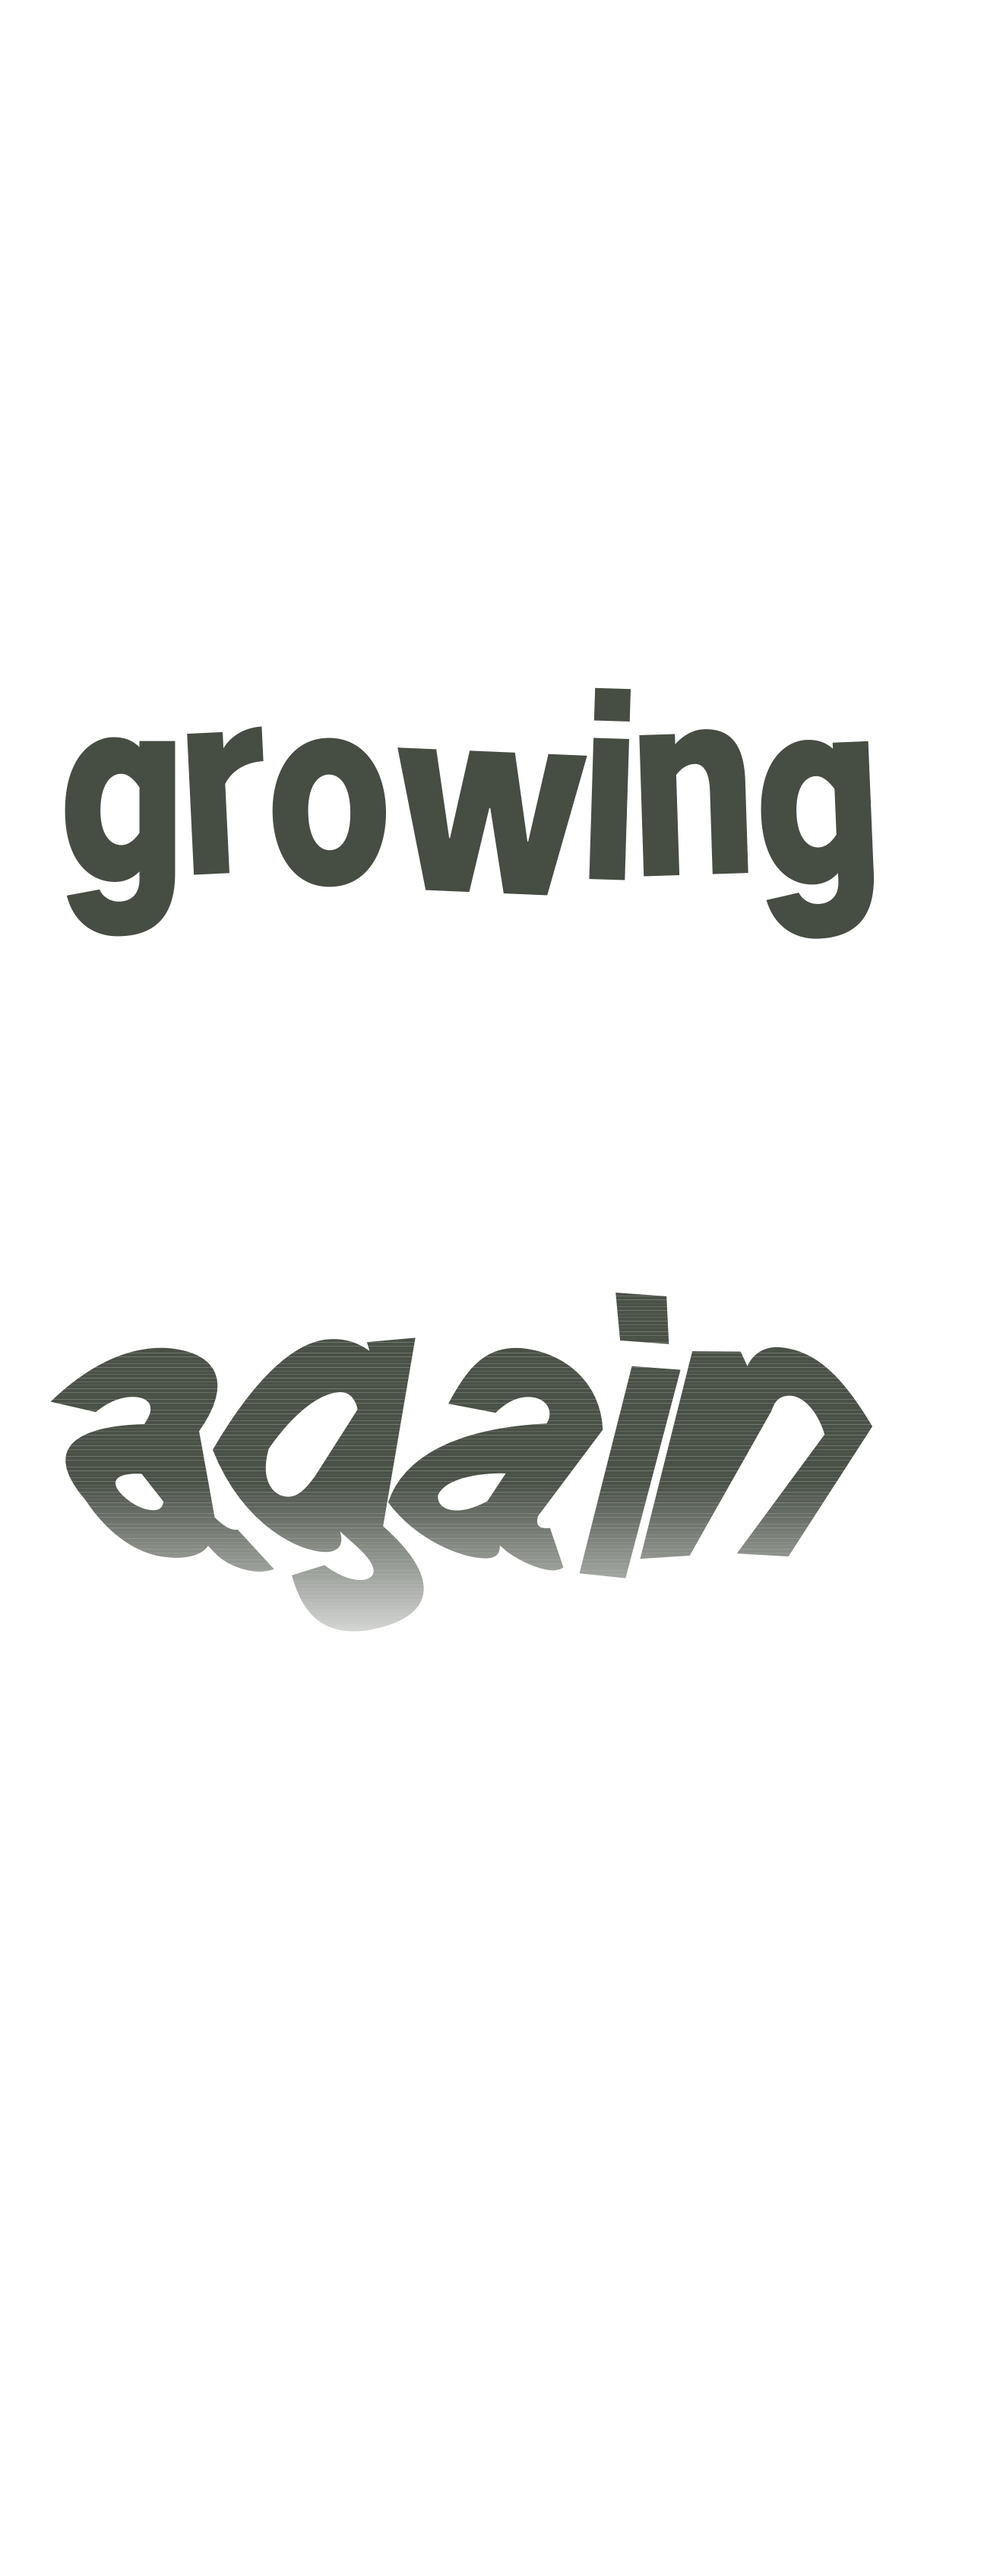
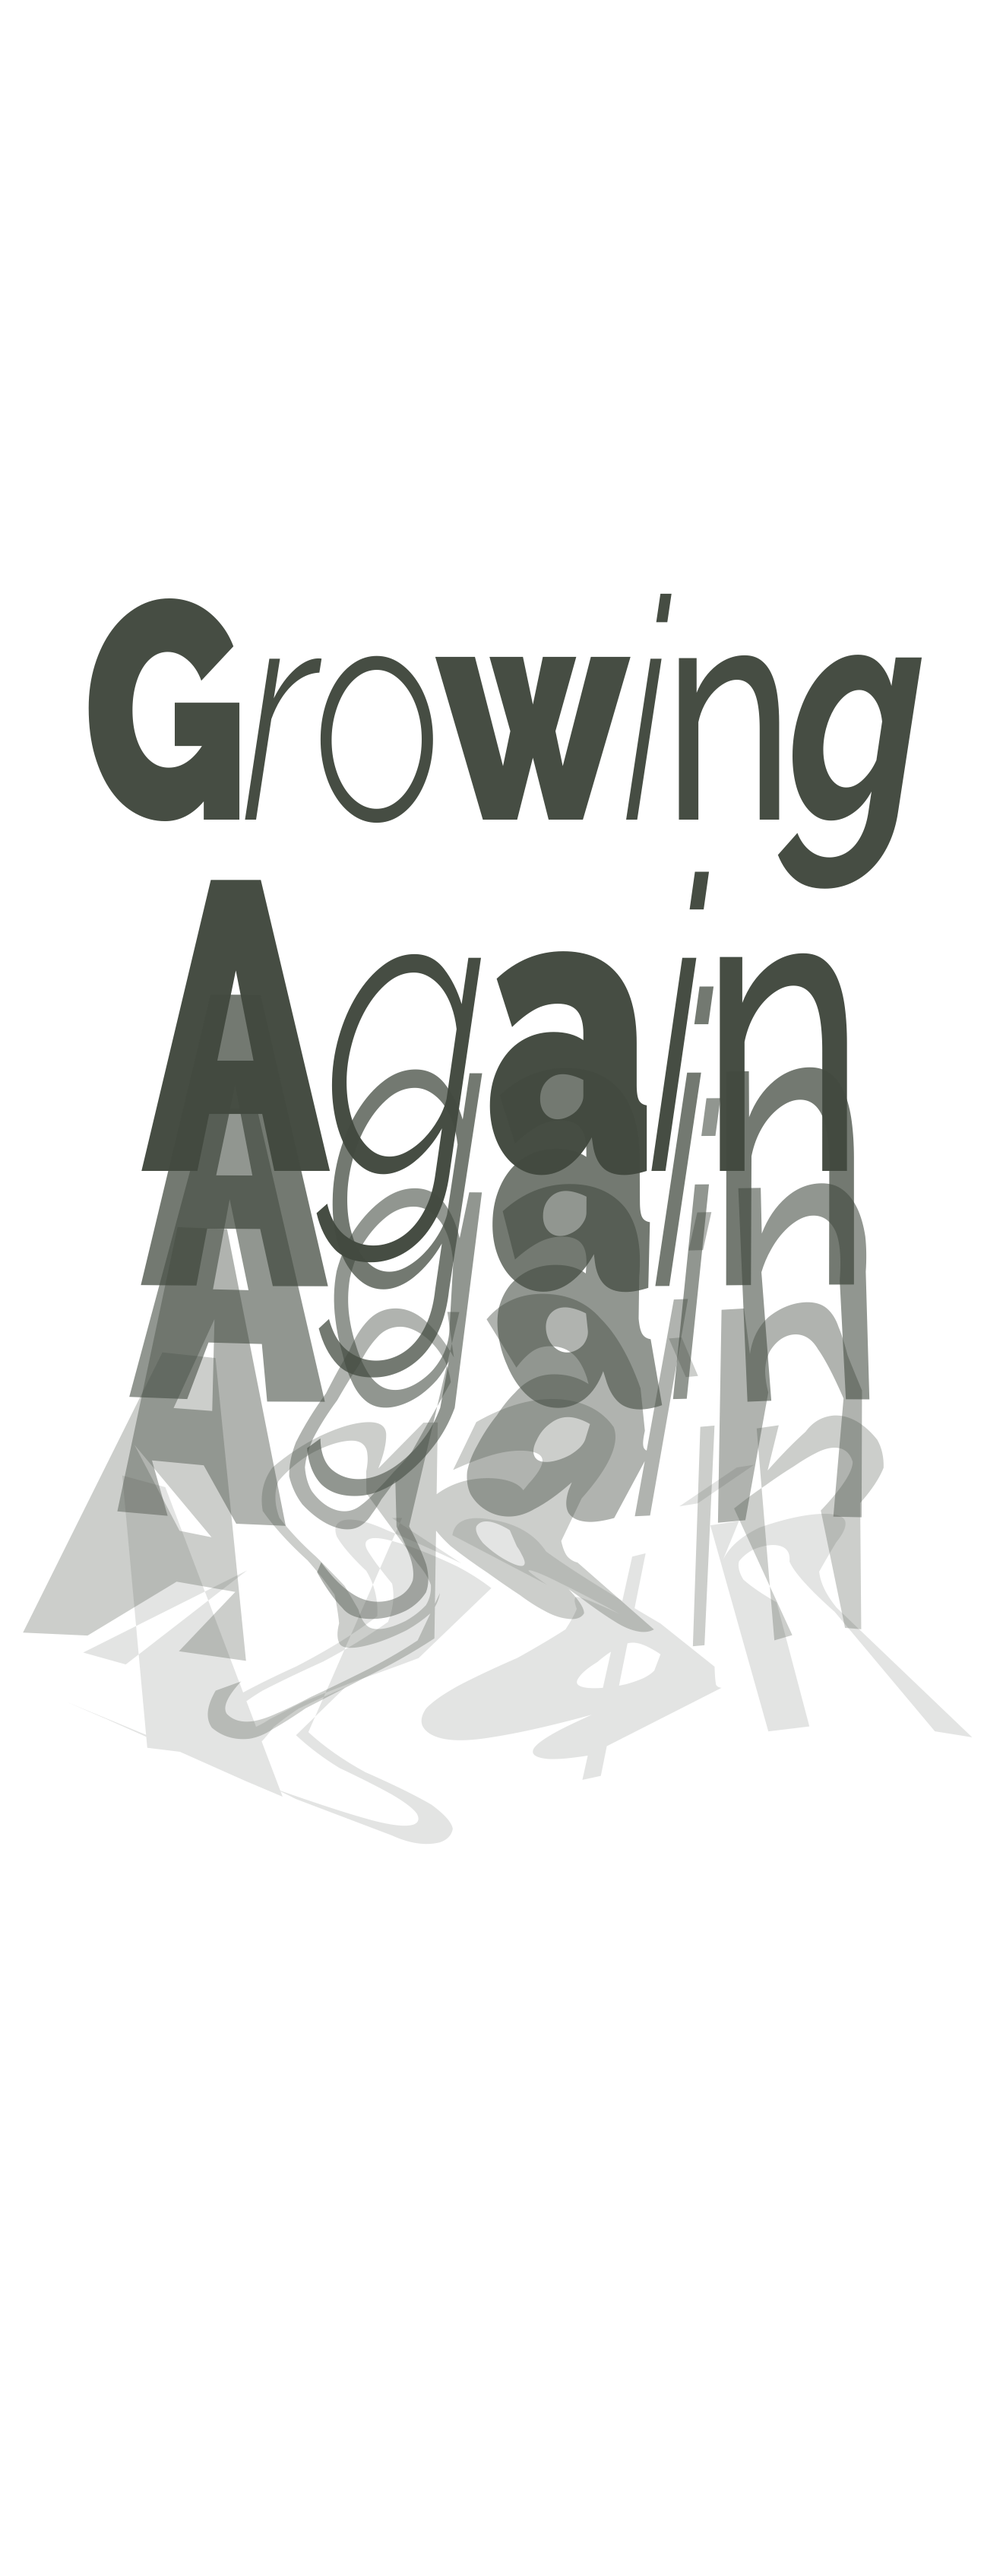
Restore 20 and 21 to long wall; isolate 18 and refine Growing Again lettering

Changed region(s): [[0.0311, 0.2169, 0.9318, 0.7128], [0.9008, 0.6508, 0.9629, 0.6818]]

diff --git a/joycity-once/index.html b/joycity-once/index.html
@@ -5,7 +5,7 @@
   <meta name="viewport" content="width=device-width, initial-scale=1">
   <meta name="theme-color" content="#eeede9">
   <title>大悦城 ONCE 个展项目 · 留白、顺读与透明诗板</title>
-  <link rel="stylesheet" href="style.css?v=20261105-trial10-mobile1">
+  <link rel="stylesheet" href="style.css?v=20261105-trial10b">
   <script type="importmap">{"imports":{"three":"./vendor/three.module.js"}}</script>
 </head>
 <body>
@@ -39,7 +39,7 @@
     </aside>
     <aside id="details-panel" hidden>
       <div class="panel-title"><h2>空间底稿</h2><button id="close-panel" aria-label="收起配色与图层">收起</button></div>
-      <section id="trial-description"><h3>当前试排10</h3><p>31幅摄影重新聚散：长墙以27幅小画形成五组，四个短墙面各放一幅大画；保留完整的空墙。两首诗各有可继续阅读的次序，回声与主链区分。</p><p>保留已认可的两端动词字形与错落，在六片作品之间插入两块70×180厘米透明诗板，整排5.6米。growing again逐字轻转，字迹下部弯曲、退淡；海水句从凝聚到消退。</p><p>原作画面与尺寸未改；九处共用夹架仍为构型候选。消退字形是视觉试验，尚不是实际水溶材料工艺。现场净宽、结构与3.6米顶面试字标高仍待核定。</p></section>
+      <section id="trial-description"><h3>当前试排10 · 修订</h3><p>20、21恢复到09长墙原位。18从密集组中抽出，独占两组之间的留白；前短墙两面各放27、12一幅小画，后短墙保留35、01。</p><p>已认可的玻璃组与两端动词保留，六片作品之间插入两块70×180厘米透明诗板。Growing Again中的Again以六层字形向下重叠、退淡；另一块让“海水越过海水”逐渐消退。</p><p>31幅摄影的画面、外框和尺寸均未改。这是讨论中的试排；诗板字形、玻璃构造与材料尚待打样，安装点位暂不定稿。</p></section>
       <p class="panel-intro">从A口朝B口看，右侧较短墙可用长31.2米，左墙更长，增量待测。可用墙高2.95米。现有展墙内净宽暂估约4.4米；拆墙后的净宽待测。射灯高于2.95米，本稿轨层暂用3.30米示意，实际标高和总数待测。</p>
       <fieldset><legend>显示图层</legend>
         <label><input type="checkbox" id="cutaway" checked>剖开近侧墙</label>
@@ -70,6 +70,6 @@
     <div id="walk-controls" hidden><label for="position">纵向位置</label><input id="position" type="range" min="0.3" max="30.9" step="0.1" value="0.9"><output id="position-value" for="position">0.9 m</output></div>
     <span class="footer-note" id="image-status">试排10 · 正在载入作品图像</span>
   </footer>
-  <script type="module" src="app.js?v=20261105-trial10"></script>
+  <script type="module" src="app.js?v=20261105-trial10b"></script>
 </body>
 </html>

diff --git a/joycity-once/app.js b/joycity-once/app.js
@@ -1,7 +1,7 @@
 import * as THREE from 'three';
 import { OrbitControls } from './vendor/OrbitControls.js';
-import { installCatalog } from './catalog.js?v=20261105-trial10';
-import { buildExhibition } from './exhibition.js?v=20261105-trial10';
+import { installCatalog } from './catalog.js?v=20261105-trial10b';
+import { buildExhibition } from './exhibition.js?v=20261105-trial10b';
 
 const $ = (s) => document.querySelector(s);
 const host = $('#canvas-host');
@@ -294,13 +294,13 @@ function animate(now){raf=requestAnimationFrame(animate);const dt=Math.min((now-
 async function init(){try{
   const approvedBaseline=new URLSearchParams(location.search).get('trial')==='09';
   const layoutURL=approvedBaseline?'layouts/trial09.json':'layout.json';
-  const responses=await Promise.all(['space.json',layoutURL,'catalog.json'].map(path=>fetch(path+'?v=20261105-trial10',{cache:'no-store'})));
+  const responses=await Promise.all(['space.json',layoutURL,'catalog.json'].map(path=>fetch(path+'?v=20261105-trial10b',{cache:'no-store'})));
   if(responses.some(r=>!r.ok))throw new Error('空间或试排数据读取失败');
   const inputTexts=await Promise.all(responses.map(r=>r.text()));
   [data,trialLayout,library]=inputTexts.map(text=>JSON.parse(text));
   $('#trial-on').textContent=approvedBaseline?'已认可09':'试排10';
   $('#baseline-compare').textContent=approvedBaseline?'看试排10':'对照已认可09';
-  $('#baseline-compare').href=approvedBaseline?'?v=20261105-trial10&focus=sentence-waves':'?trial=09&v=20261105-trial10&focus=sentence-waves';
+  $('#baseline-compare').href=approvedBaseline?'?v=20261105-trial10b&focus=sentence-waves':'?trial=09&v=20261105-trial10b&focus=sentence-waves';
   if(approvedBaseline){$('.header h1 span').textContent='已认可09';$('.header p').textContent='六块并板 · 原位置与句形';document.title='大悦城 ONCE · 已认可09';}
   if(approvedBaseline)$('#trial-description').innerHTML='<h3>已认可的09基准</h3><p>六片70×180厘米玻璃并成4.2米；两端动词的字形和错落保持。此处是用户认可的基准，可与插入两块透明诗板的试排10比较。</p>';
   const initialFocus=new URLSearchParams(location.search).get('focus');
